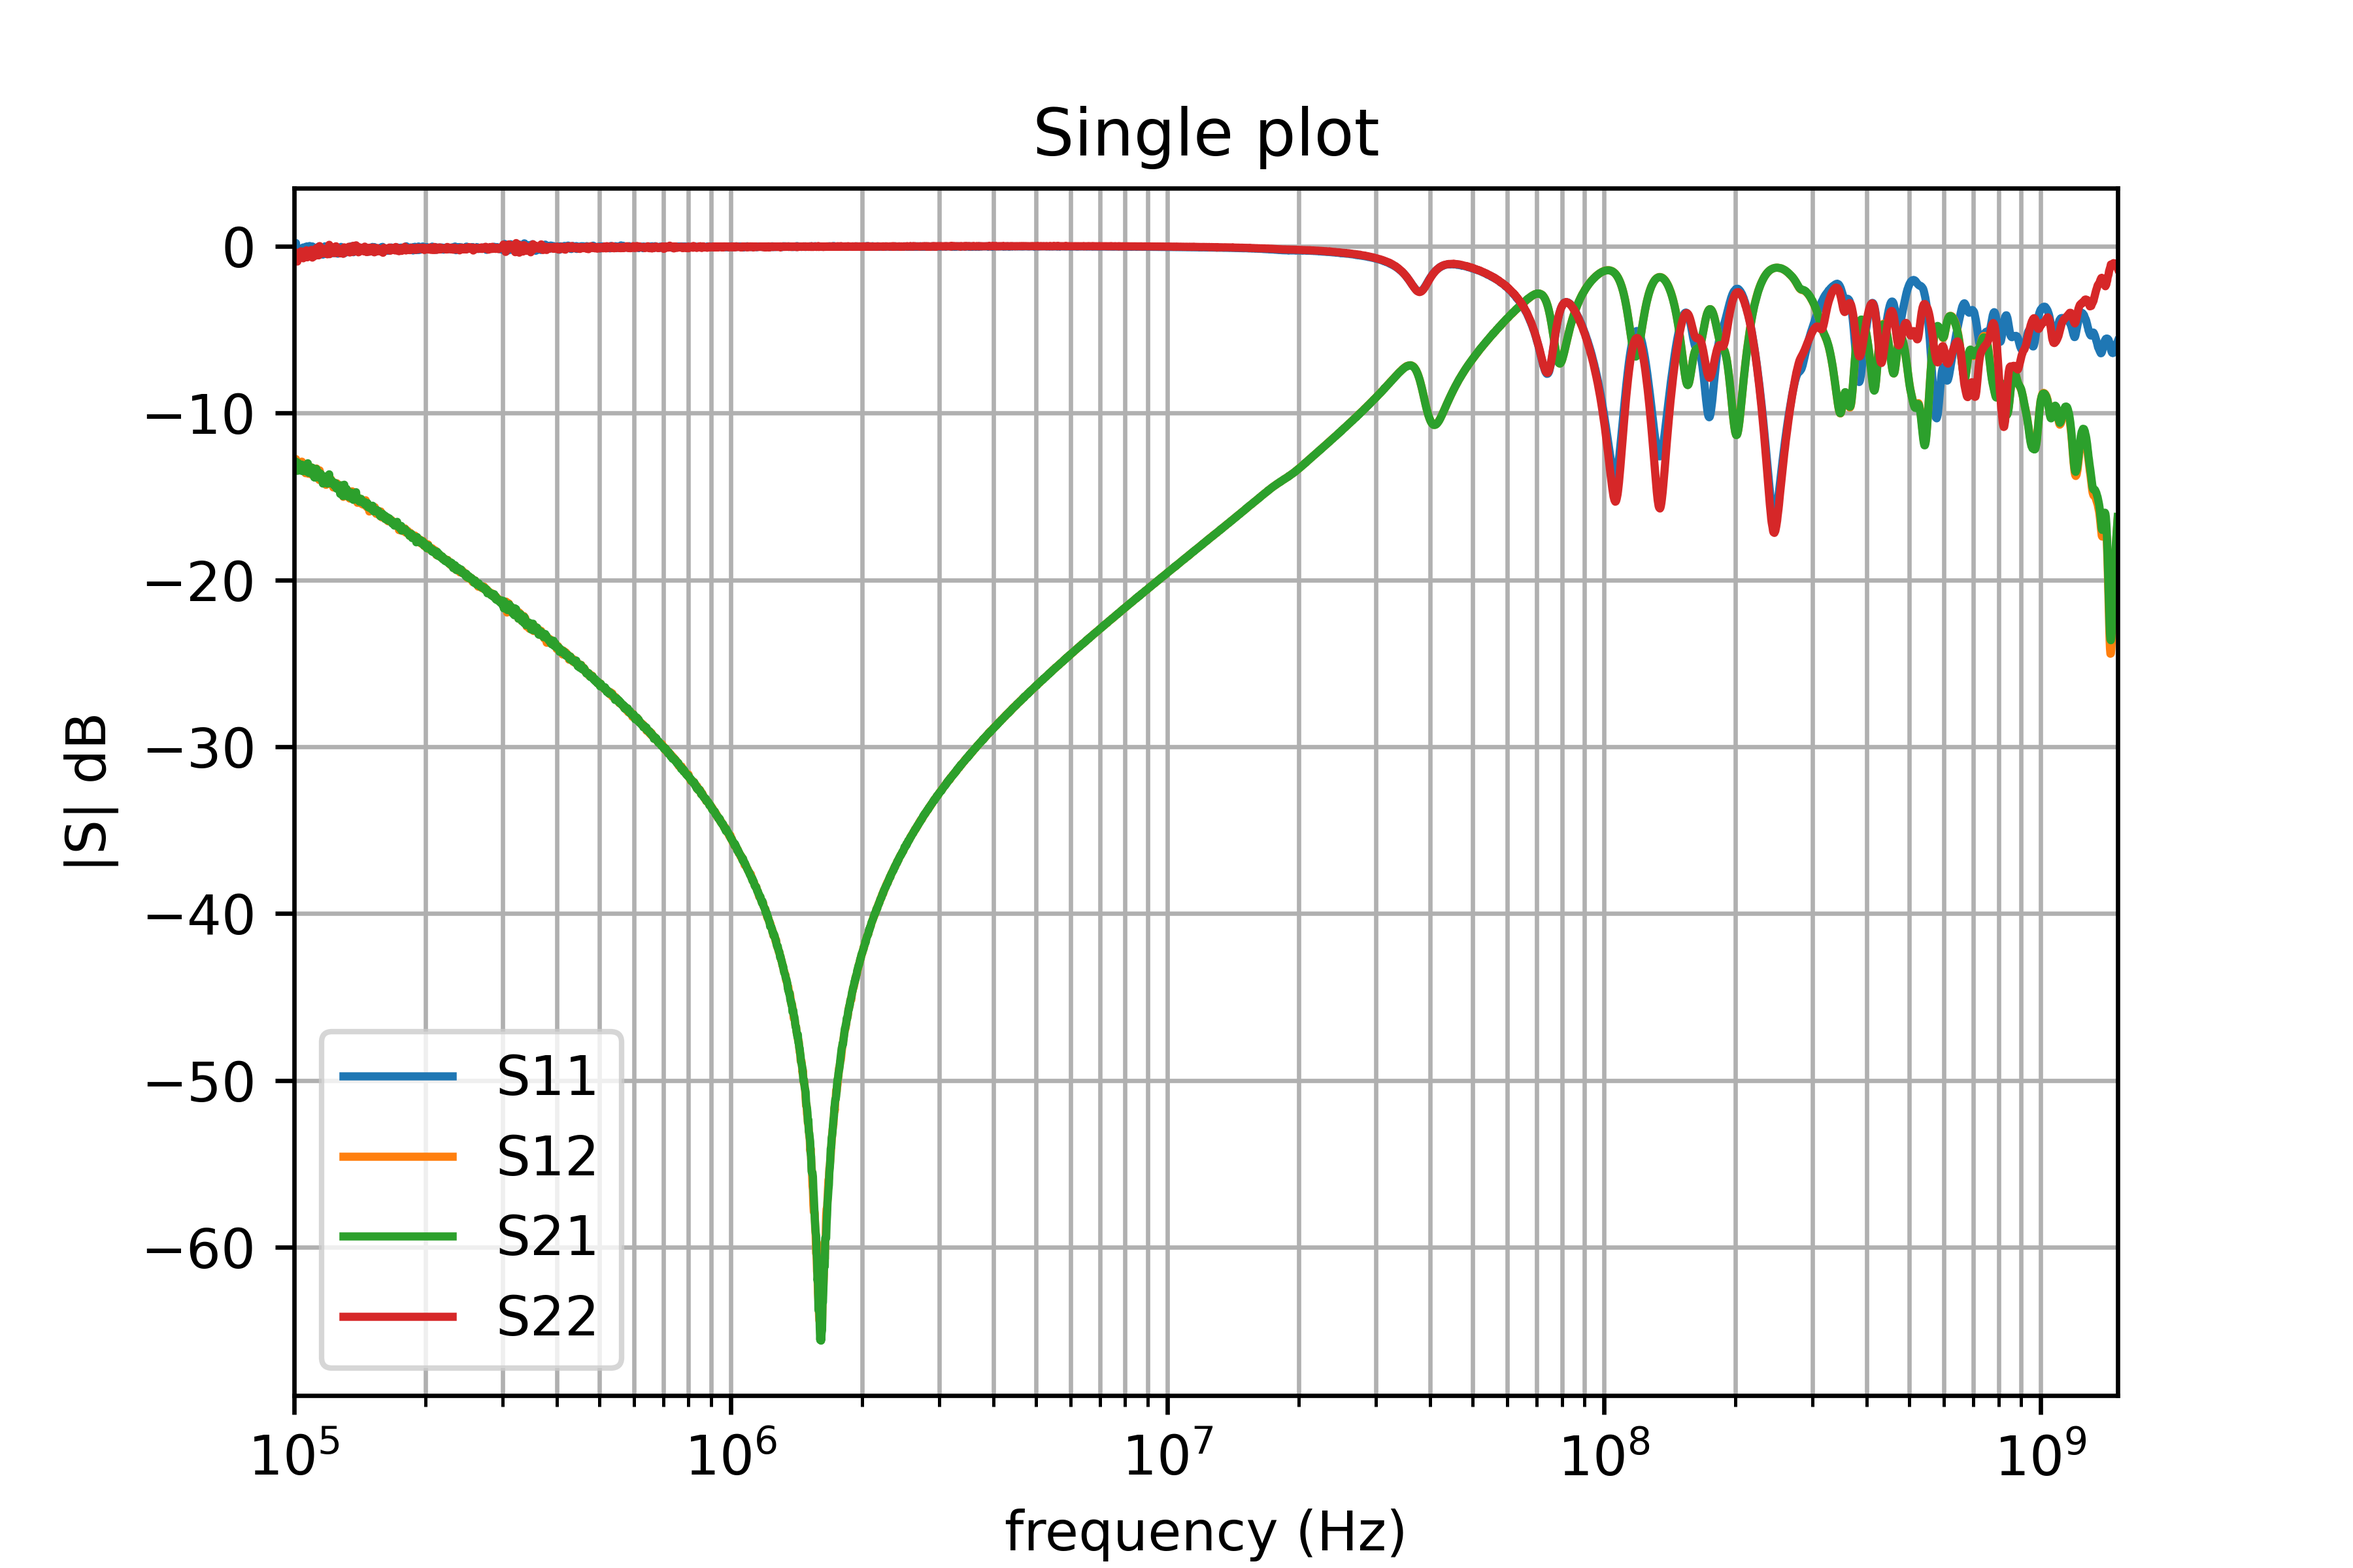
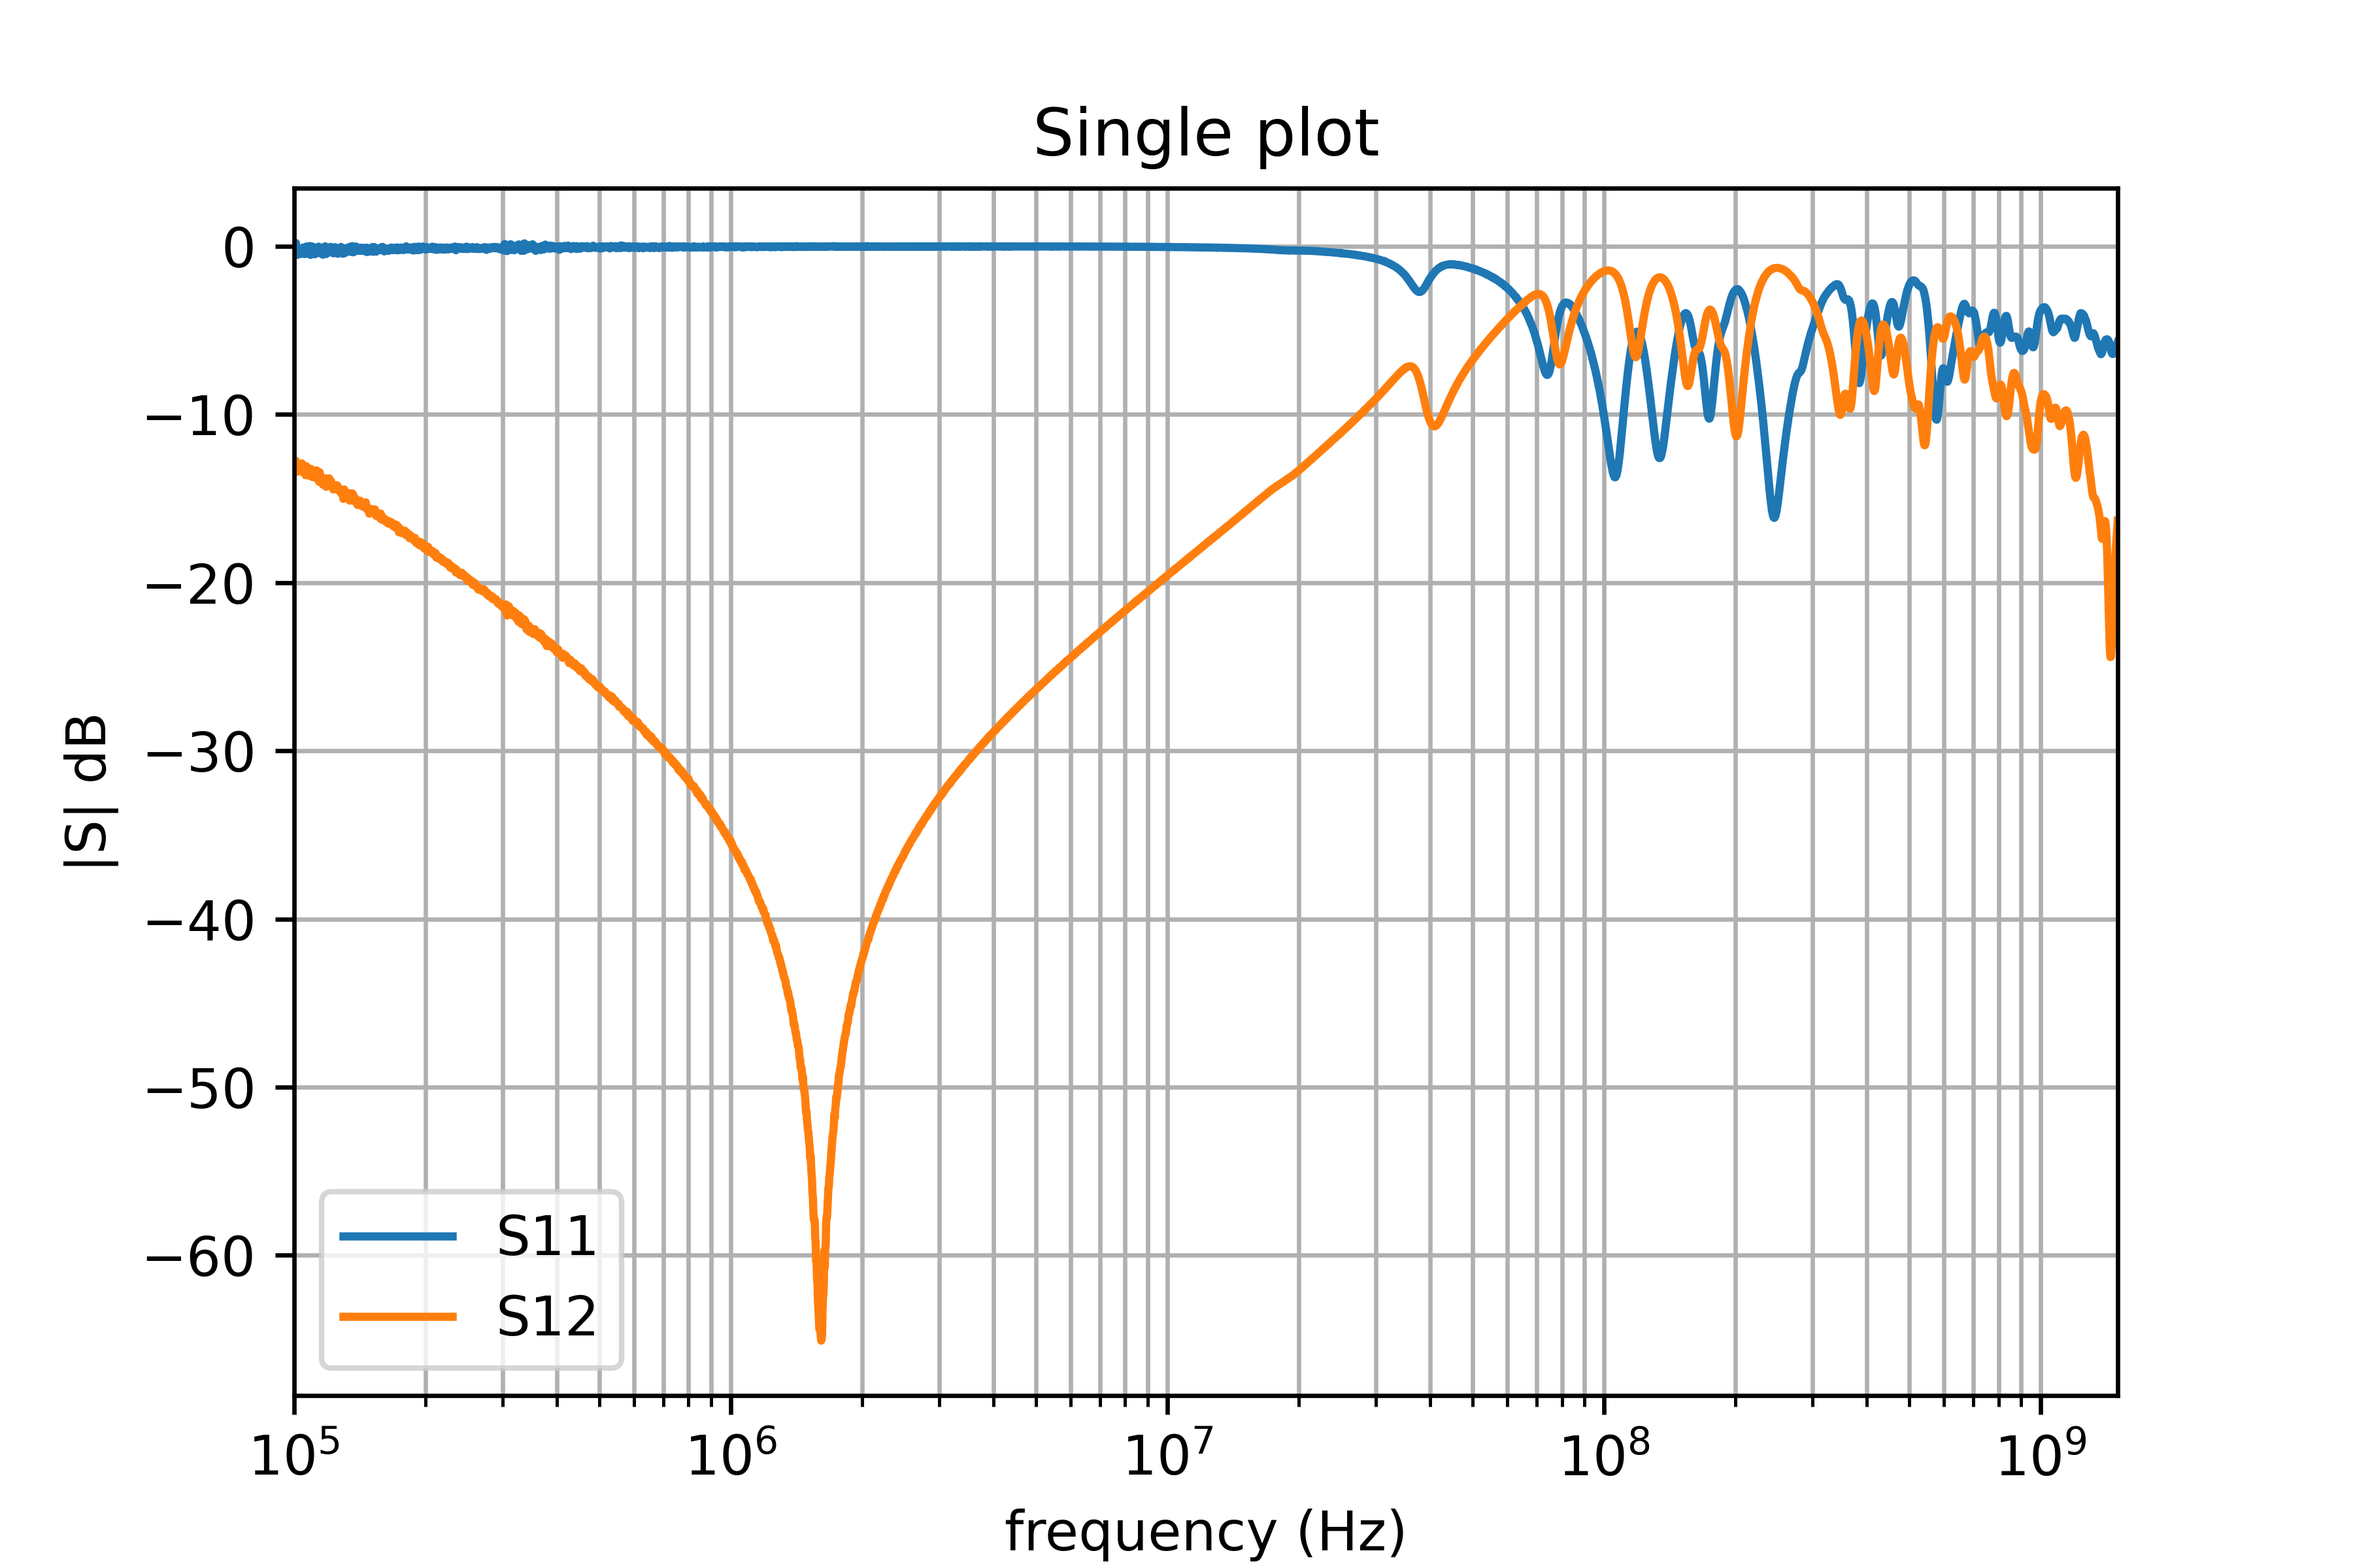
Added function to slice S-Parameter dict

diff --git a/Test_function.py b/Test_function.py
@@ -31,9 +31,12 @@ if __name__ =='__main__':
  
     # store SParameters out of the network file in separate arrays
     number_ports, number_points, frequency, SParameter = netman.extract_Sparam(ntwk_4)
+    
+    # split up SParameters to desired ones
+    SParameter_parts = netman.sliceSparam(['S11','S12'], SParameter)
 
     # print S-Parameters
-    netman.plot_Sparam(frequency, SParameter, number_ports, how='allinone',
+    netman.plot_Sparam(frequency, SParameter_parts, number_ports, how='allinone',
                        spacing='log', valuetype='dB',
                        title='Single plot', xlabel='frequency (Hz)', ylabel='|S| dB',
                        legend='legon', legpos='best',
@@ -44,5 +47,4 @@ if __name__ =='__main__':
                        title='Many Subplots', xlabel='frequency (Hz)', ylabel='|S| dB',
                        legend='legon', legpos='best',
                        save='on', savename='subplot.png')    
-    
     

diff --git a/network_manipulations.py b/network_manipulations.py
@@ -259,5 +259,15 @@ def calc_Mixed_Mode_from_S(path):
 
 
 
+def sliceSparam(keys_to_extract, dict_input):
+    dict_output = {k: dict_input[k] for k in keys_to_extract}
+    
+    return dict_output
+
+
+
+
+
+
 
 
